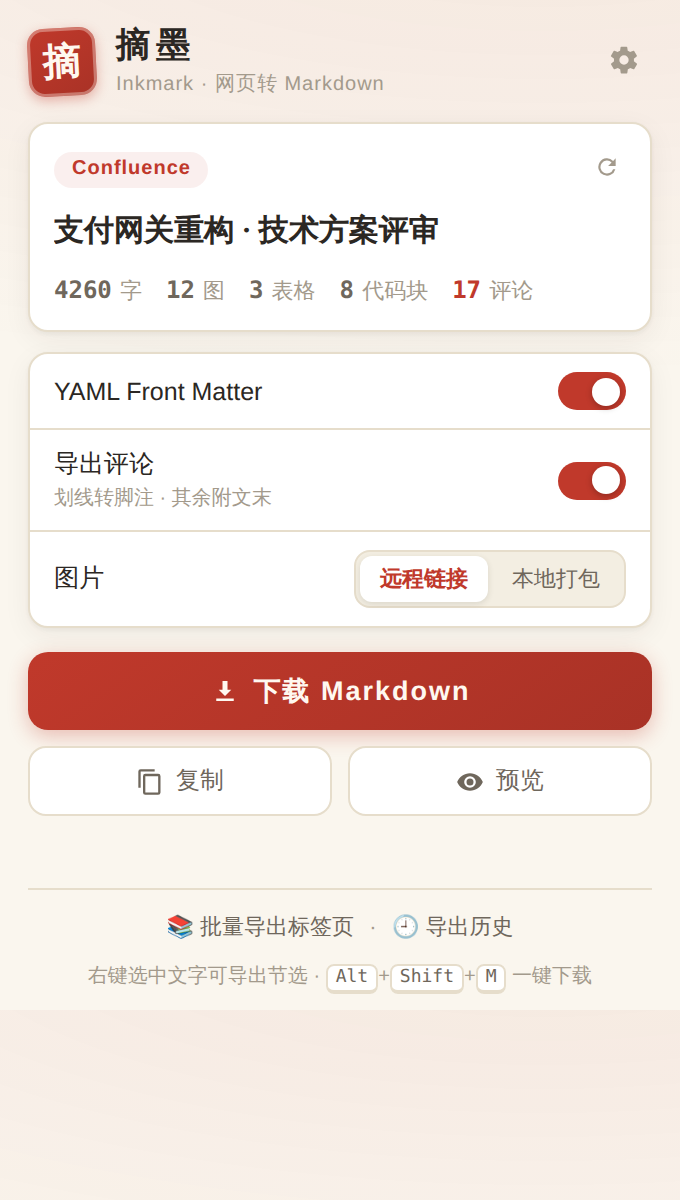
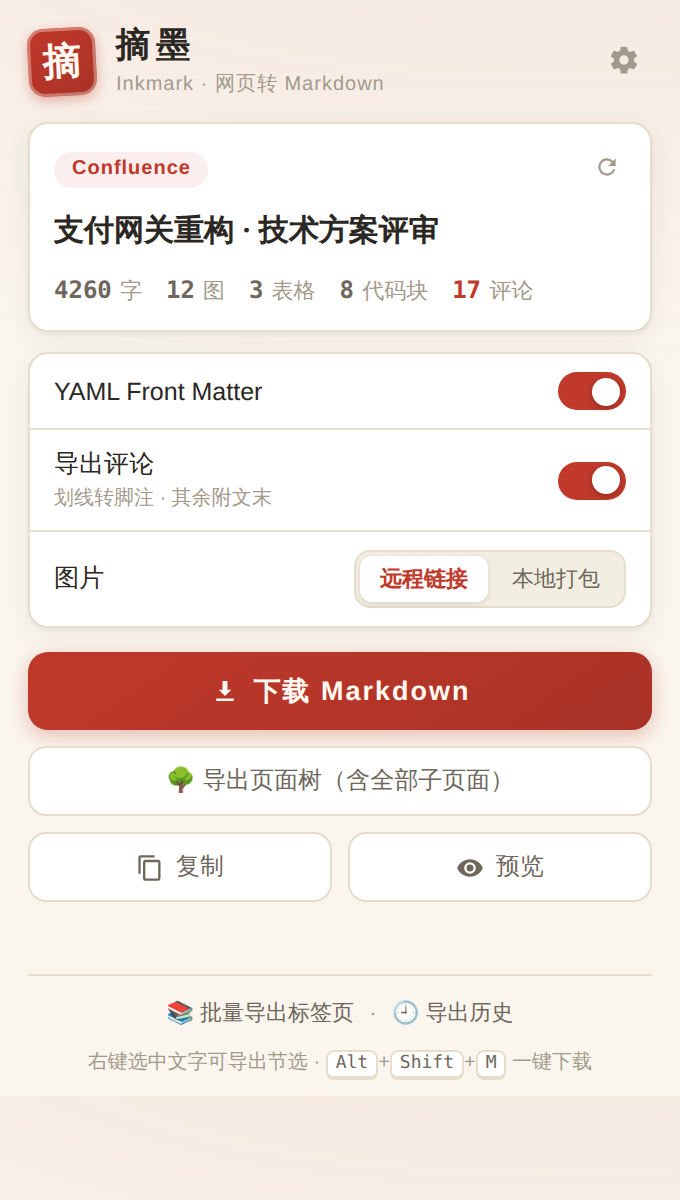
v2.4.0：Confluence 页面树批量导出
- 一键导出「当前页 + 全部子孙页面」为一个 ZIP，目录镜像页面树层级
- 全程同源 REST API（child/page 分页递归 + body.export_view），
  不打开任何标签页；API HTML 复用单页提取的全套规范化逻辑
- 防御：300 页安全上限、单页失败不中断整树、失败清单写入
  ZIP 内「导出报告.md」、同名页面自动防覆盖、进度逐页上报
- popup 入口按适配器条件渲染（仅 Confluence 页面出现）

测试：REST mock + ZIP 解包断言 5 项（层级/转换/失败报告），
共 72 项全部通过

Claude-Session: https://claude.ai/code/session_017M73frpUYZfvujQZd2bUvj

Changed region(s): [[0.0618, 0.7092, 0.9574, 0.925], [0.1853, 0.6167, 0.8029, 0.7092], [0.7721, 0.8633, 0.8647, 0.8942]]

diff --git a/src/core/pipeline.js b/src/core/pipeline.js
@@ -149,6 +149,82 @@
     throw new Error('未知导出动作: ' + action);
   }
 
+  /**
+   * Confluence 页面树批量导出：当前页 + 全部子孙页面 → 一个 ZIP（目录镜像层级）。
+   * 全程走同源 REST API，不打开任何标签页。评论不随树导出（每页多一次 API，
+   * 大空间下太慢）；失败页面写入 ZIP 内的「导出报告.md」，绝不静默丢失。
+   */
+  const TREE_MAX_PAGES = 300;
+
+  async function handleExportTree(options) {
+    const settings = await loadSettings(options);
+    window.__inkCustomRules = settings.customRules || [];
+    const adapter = InkAdapters.resolve();
+    if (adapter.id !== 'confluence') {
+      return { ok: false, error: '页面树导出目前仅支持 Confluence 页面' };
+    }
+    const rootId = adapter._pageId();
+    if (!rootId) return { ok: false, error: '未能识别当前页面的 pageId' };
+
+    const base = adapter._baseUrl();
+    const rootIR = await getIR(settings);
+    const safe = (s) => String(s || 'untitled').replace(/[\\/:*?"<>|\n\r]+/g, '_').trim().slice(0, 80) || 'untitled';
+
+    const nodes = [{ ir: rootIR, path: [] , title: rootIR.title }];
+    const queue = [{ id: rootId, path: [rootIR.title] }];
+    const failures = [];
+    let fetched = 1;
+
+    while (queue.length) {
+      const cur = queue.shift();
+      let children = [];
+      try {
+        children = await adapter.fetchChildren(cur.id);
+      } catch (e) {
+        failures.push(`页面 ${cur.id} 的子页面列表拉取失败：${e.message}`);
+        continue;
+      }
+      for (const child of children) {
+        if (fetched >= TREE_MAX_PAGES) {
+          failures.push(`超出 ${TREE_MAX_PAGES} 页安全上限，「${child.title}」及之后的页面未导出`);
+          queue.length = 0;
+          break;
+        }
+        fetched += 1;
+        progress(`抓取第 ${fetched} 页：${child.title}`);
+        try {
+          const meta = await adapter.fetchPageHtml(child.id);
+          const url = `${base}/pages/viewpage.action?pageId=${child.id}`;
+          nodes.push({ ir: adapter.htmlToIR(meta, url), path: cur.path, title: meta.title });
+          queue.push({ id: child.id, path: cur.path.concat(meta.title) });
+        } catch (e) {
+          failures.push(`「${child.title || child.id}」抓取失败：${e.message}`);
+        }
+      }
+    }
+
+    progress('正在转换并打包…');
+    const zip = new JSZip();
+    const renderOpts = Object.assign({}, settings, { includeComments: false });
+    const used = new Set();
+    for (const n of nodes) {
+      const dir = n.path.map(safe).join('/');
+      let name = safe(n.title);
+      let full = (dir ? dir + '/' : '') + name + '.md';
+      for (let k = 2; used.has(full); k++) full = (dir ? dir + '/' : '') + `${name}-${k}.md`;
+      used.add(full);
+      zip.file(full, InkMarkdown.render(n.ir, renderOpts));
+    }
+    if (failures.length) {
+      zip.file('导出报告.md',
+        `# 页面树导出报告\n\n成功导出 ${nodes.length} 页。以下 ${failures.length} 项失败：\n\n` +
+        failures.map(f => `- ${f}`).join('\n') + '\n');
+    }
+    const blob = await zip.generateAsync({ type: 'blob' });
+    InkExporter.downloadBlob(blob, InkExporter.buildFilename('{title}-页面树', rootIR, 'zip'));
+    return { ok: true, pages: nodes.length, failed: failures.length };
+  }
+
   async function handleExportSelection(options) {
     const sel = window.getSelection();
     if (!sel || sel.isCollapsed) {
@@ -178,7 +254,7 @@
   }
 
   // 供测试环境直接调用（fixture 页面里没有 chrome.runtime）
-  window.__inkmark = { getIR, handleAnalyze, handleExport, handleExportSelection, loadSettings };
+  window.__inkmark = { getIR, handleAnalyze, handleExport, handleExportSelection, handleExportTree, loadSettings };
 
   if (typeof chrome !== 'undefined' && chrome.runtime && chrome.runtime.onMessage) {
   chrome.runtime.onMessage.addListener((msg, sender, sendResponse) => {
@@ -187,6 +263,7 @@
         if (msg.type === 'INK_ANALYZE') return await handleAnalyze(msg.options);
         if (msg.type === 'INK_EXPORT') return await handleExport(msg.action, msg.options);
         if (msg.type === 'INK_EXPORT_SELECTION') return await handleExportSelection(msg.options);
+        if (msg.type === 'INK_EXPORT_TREE') return await handleExportTree(msg.options);
         return { ok: false, error: '未知消息类型' };
       } catch (e) {
         console.error('[inkmark]', e);

diff --git a/src/adapters/confluence.js b/src/adapters/confluence.js
@@ -191,6 +191,60 @@ const ConfluenceAdapter = {
     return ann;
   },
 
+  /* ---------- 页面树批量导出（REST API，同源自动携带登录态） ---------- */
+
+  async _apiGet(url) {
+    const res = await fetch(url, { headers: { Accept: 'application/json' }, credentials: 'same-origin' });
+    if (!res.ok) throw new Error(`HTTP ${res.status}`);
+    return res.json();
+  },
+
+  /** 某页面的直接子页面（分页拉全） */
+  async fetchChildren(pageId) {
+    const base = this._baseUrl();
+    let url = `${base}/rest/api/content/${pageId}/child/page?limit=50`;
+    const out = [];
+    for (let i = 0; url && i < 10; i++) {
+      const data = await this._apiGet(url);
+      out.push(...(data.results || []).map(p => ({ id: p.id, title: p.title })));
+      url = (data._links && data._links.next)
+        ? ((data._links.base || base) + data._links.next)
+        : null;
+    }
+    return out;
+  },
+
+  /** 拉取页面渲染后的 HTML（export_view 与页面渲染同构，可复用清洗逻辑） */
+  async fetchPageHtml(pageId) {
+    const base = this._baseUrl();
+    const data = await this._apiGet(
+      `${base}/rest/api/content/${pageId}?expand=body.export_view,history`);
+    return {
+      title: data.title || String(pageId),
+      html: (data.body && data.body.export_view && data.body.export_view.value) || '',
+      author: data.history && data.history.createdBy && data.history.createdBy.displayName,
+    };
+  },
+
+  /** API 返回的 HTML → IR，与单页提取共享全部规范化逻辑 */
+  htmlToIR(pageMeta, pageUrl) {
+    const container = document.createElement('div');
+    container.innerHTML = pageMeta.html;
+    InkIR.removeNoise(container, ['.conf-macro.output-inline[data-macro-name="toc"]', '.expand-control']);
+    this._normalizeCodeMacros(container);
+    this._normalizePanels(container);
+    this._normalizeImages(container);
+    InkIR.fixLazyImages(container);
+    InkIR.absolutizeUrls(container, pageUrl);
+    return InkIR.create({
+      title: pageMeta.title,
+      byline: pageMeta.author || null,
+      siteName: 'Confluence',
+      url: pageUrl,
+      contentEl: container,
+    });
+  },
+
   _title() {
     const t = document.querySelector('#title-text');
     if (t) return t.textContent.trim();

diff --git a/test/e2e.js b/test/e2e.js
@@ -330,6 +330,50 @@ async function runPipeline(page, fixture, options) {
     assert(grid.html.includes('rowspan="2"'), 'html 保守模式仍原样保留结构');
   }
 
+  /* ---------- 用例 13：Confluence 页面树批量导出（REST mock + ZIP 解包断言） ---------- */
+  console.log('\n[13] 页面树导出 · 层级镜像 / 失败报告');
+  {
+    await page.goto('file://' + path.join(ROOT, 'test/fixtures/confluence-page.html'));
+    for (const f of CONTENT_FILES) {
+      await page.addScriptTag({ path: path.join(ROOT, f) });
+    }
+    const tree = await page.evaluate(async () => {
+      // mock 同源 REST API：128450 → 子页 200；200 → 孙页 300；300 → 无子页且正文拉取失败
+      const json = (obj) => Promise.resolve({ ok: true, json: () => Promise.resolve(obj) });
+      window.fetch = (url) => {
+        url = String(url);
+        if (url.includes('/content/128450/child/page')) return json({ results: [{ id: '200', title: '子页面A' }] });
+        if (url.includes('/content/200/child/page')) return json({ results: [{ id: '300', title: '孙页面B' }, { id: '400', title: '坏页面C' }] });
+        if (url.includes('/content/300/child/page') || url.includes('/content/400/child/page')) return json({ results: [] });
+        if (url.includes('/content/200?expand')) return json({ title: '子页面A', body: { export_view: { value: '<p>A 的内容</p>' } } });
+        if (url.includes('/content/300?expand')) return json({ title: '孙页面B', body: { export_view: { value: '<h2>小节</h2><p>B 的正文</p>' } } });
+        if (url.includes('/content/400?expand')) return Promise.resolve({ ok: false, status: 500 });
+        return Promise.resolve({ ok: false, status: 404 });
+      };
+      // 拦截 ZIP 下载
+      let captured = null;
+      InkExporter.downloadBlob = (blob, filename) => { captured = { blob, filename }; };
+
+      const res = await window.__inkmark.handleExportTree({ includeComments: false, frontMatter: false });
+      if (!captured) return { res, files: [] };
+      const zip = await JSZip.loadAsync(captured.blob);
+      const files = Object.keys(zip.files).filter(n => !zip.files[n].dir).sort();
+      const bContent = await (zip.file('支付网关重构方案/子页面A/孙页面B.md') || { async: () => '' }).async('string');
+      const report = await (zip.file('导出报告.md') || { async: () => '' }).async('string');
+      return { res, files, bContent, report, filename: captured.filename };
+    });
+    assert(tree.res.ok && tree.res.pages === 3, '根页 + 子 + 孙共 3 页导出成功', JSON.stringify(tree.res));
+    assert(tree.files.includes('支付网关重构方案.md') &&
+           tree.files.includes('支付网关重构方案/子页面A.md') &&
+           tree.files.includes('支付网关重构方案/子页面A/孙页面B.md'),
+      'ZIP 目录镜像页面树层级', tree.files.join(', '));
+    assert(tree.bContent.includes('## 小节') && tree.bContent.includes('B 的正文'),
+      '子页面 HTML 经完整转换管线输出 Markdown');
+    assert(tree.res.failed === 1 && tree.report.includes('坏页面C'),
+      '失败页面进入 ZIP 内导出报告，不静默丢失', tree.report);
+    assert(tree.filename.includes('页面树') && tree.filename.endsWith('.zip'), 'ZIP 文件名含标识');
+  }
+
   await browser.close();
 
   /* ---------- 用例 10：注入清单一致性（防「忘记注册新文件」类回归） ---------- */

diff --git a/src/popup/popup.js b/src/popup/popup.js
@@ -132,6 +132,9 @@ function renderAnalysis(res) {
   badge.textContent = res.adapter.name + (res.adapter.badge === 'experimental' ? ' · 实验性' : '');
   badge.className = 'badge ' + res.adapter.badge;
 
+  // 页面树导出：Confluence 专属能力
+  $('btn-tree').classList.toggle('hidden', res.adapter.id !== 'confluence');
+
   // 站点名与适配器名相同则不重复展示
   $('doc-site').textContent = (res.siteName && res.siteName !== res.adapter.name) ? res.siteName : '';
 
@@ -244,10 +247,27 @@ async function doPreview() {
 
 /* ---------- 事件 ---------- */
 
+async function doExportTree() {
+  const btn = $('btn-tree');
+  btn.disabled = true;
+  btn.textContent = '🌳 抓取页面树中…';
+  try {
+    const res = await sendToPage({ type: 'INK_EXPORT_TREE', options: exportOptions() });
+    if (!res.ok) throw new Error(res.error);
+    status(`已导出 ${res.pages} 页` + (res.failed ? `（${res.failed} 项失败，详见 ZIP 内导出报告）` : ''));
+  } catch (e) {
+    status('页面树导出失败：' + e.message, true);
+  } finally {
+    btn.disabled = false;
+    btn.textContent = '🌳 导出页面树（含全部子页面）';
+  }
+}
+
 function bindEvents() {
   $('btn-download').addEventListener('click', doDownload);
   $('btn-copy').addEventListener('click', doCopy);
   $('btn-preview').addEventListener('click', doPreview);
+  $('btn-tree').addEventListener('click', doExportTree);
   $('btn-settings').addEventListener('click', () => {
     if (IS_EXTENSION) chrome.runtime.openOptionsPage();
   });

diff --git a/src/popup/popup.html b/src/popup/popup.html
@@ -82,6 +82,9 @@
           <svg viewBox="0 0 24 24" width="15" height="15"><path fill="currentColor" d="M12 16l-5-5h3V4h4v7h3l-5 5zm-7 2h14v2H5v-2z"/></svg>
           <span id="btn-download-label">下载 Markdown</span>
         </button>
+        <button id="btn-tree" class="btn-ghost btn-tree hidden" title="把本页与所有子孙页面导出为一个 ZIP（保持目录层级，最多 300 页）">
+          🌳 导出页面树（含全部子页面）
+        </button>
         <div class="actions-secondary">
           <button id="btn-copy" class="btn-ghost" title="复制 Markdown 到剪贴板">
             <svg viewBox="0 0 24 24" width="14" height="14"><path fill="currentColor" d="M16 1H4a2 2 0 0 0-2 2v14h2V3h12V1zm3 4H8a2 2 0 0 0-2 2v14a2 2 0 0 0 2 2h11a2 2 0 0 0 2-2V7a2 2 0 0 0-2-2zm0 16H8V7h11v14z"/></svg>

diff --git a/src/popup/popup.css b/src/popup/popup.css
@@ -321,6 +321,8 @@ body {
   transition: all .15s;
 }
 .btn-ghost:hover { color: var(--cinnabar); border-color: var(--cinnabar); background: var(--cinnabar-mist); }
+.btn-tree { width: 100%; font-size: 12px; }
+.btn-tree:disabled { opacity: .6; cursor: wait; }
 
 .status-line {
   min-height: 16px;

diff --git a/README.md b/README.md
@@ -28,6 +28,7 @@
 - 🧮 **公式还原**：KaTeX / MathJax / 知乎公式图 → `$LaTeX$` 源码
 - 🖼 **图片两种策略**：保留远程链接，或并发抓取（自动携带登录态、20s 超时兜底）打包为 `assets/` + ZIP
 - 📚 **批量导出**：把当前窗口多个标签页一次导出为一个 ZIP（按需授权，单页失败不影响整批）
+- 🌳 **Confluence 页面树导出**：当前页 + 全部子孙页面一键导出，ZIP 目录镜像页面层级（REST API 驱动，不开标签页）
 - 🕘 **导出历史**：最近 30 次导出可随时找回、重新下载或复制（仅存本机）
 - 📋 **多种出口**：下载 .md / 复制剪贴板 / 新标签页预览（对照·效果·源码三视图）
 - ✂️ **右键节选**：选中任意内容 → 右键 → 导出为 Markdown